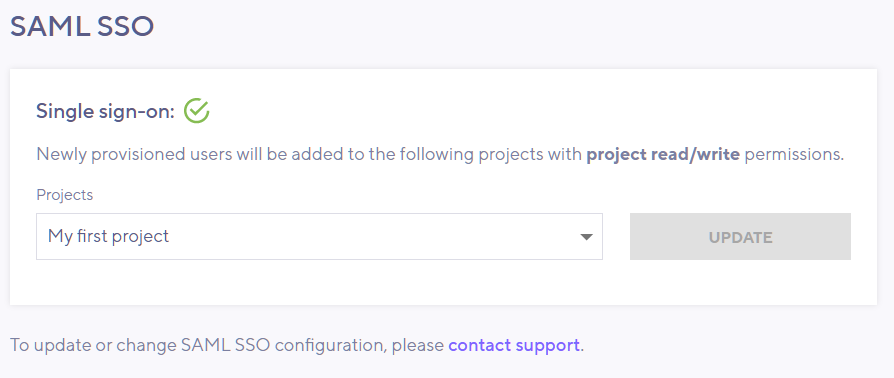
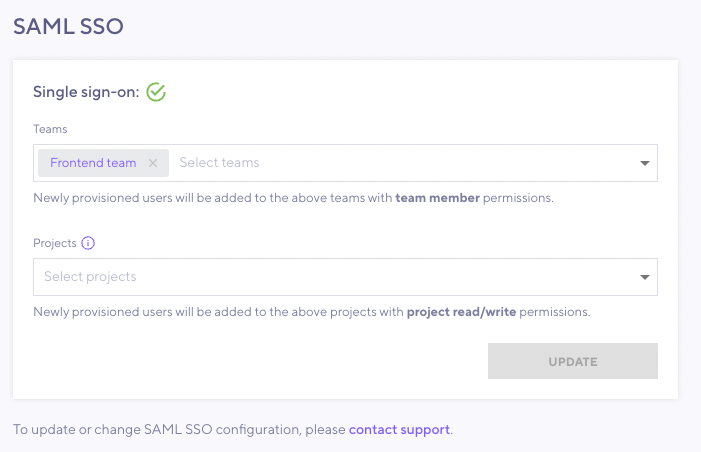
[feat] Update SAML SSO images

diff --git a/src/data/markdown/docs/03 cloud/05 Project and Team Management/05 SAML SSO.md b/src/data/markdown/docs/03 cloud/05 Project and Team Management/05 SAML SSO.md
@@ -172,11 +172,10 @@ While teams/projects can be auto-created on-connection (if you arranged for this
 Follow these steps to update list of default teams/projects for new users:
 
 1. Make sure you correctly setup the SAML organization with the help of the customer success team. You can use your admin account to test the setup.
-2. Go to your organization setting and choose the SAML SSO tab:
+2. Go to your organization setting and choose the SAML SSO tab.
 ![SAML SSO settings](images/04-SAML-SSO/saml-sso-settings.png)
-As you can see below, the default project is already selected. If you have access to Teams, it's recommended that you [set up your Teams](/cloud/project-and-team-management/teams#creating-a-team) to grant access to the Projects you like, and just set up new users to join those Team(s) here rather than add them directly to Projects.
 
+3. If you have access to Teams, it's recommended that you [set up your Teams](/cloud/project-and-team-management/teams#creating-a-team) to grant access to the Projects you like, and just set up new users to join those Team(s) here rather than add them directly to Projects. From the drop-down you can choose the default team(s) or project(s) newly provisioned users will be assigned.
 ![SAML SSO default project](images/04-SAML-SSO/saml-sso-default-project.png)
-3. From the drop-down you can choose the default team(s) or project(s) newly provisioned users will be assigned. Then click on update button:
-![SAML SSO update default projects](images/04-SAML-SSO/saml-sso-update-default-project.png)
+
 4. Now the users assigned to the IdP application can sign in to k6 Cloud. They'll be automatically added to project(s) in step 3 with __project read/write__ permissions. They will join Teams with a **team read only** permission (but the team will normally grant **project read/write** projects to all projects linked to the team).
